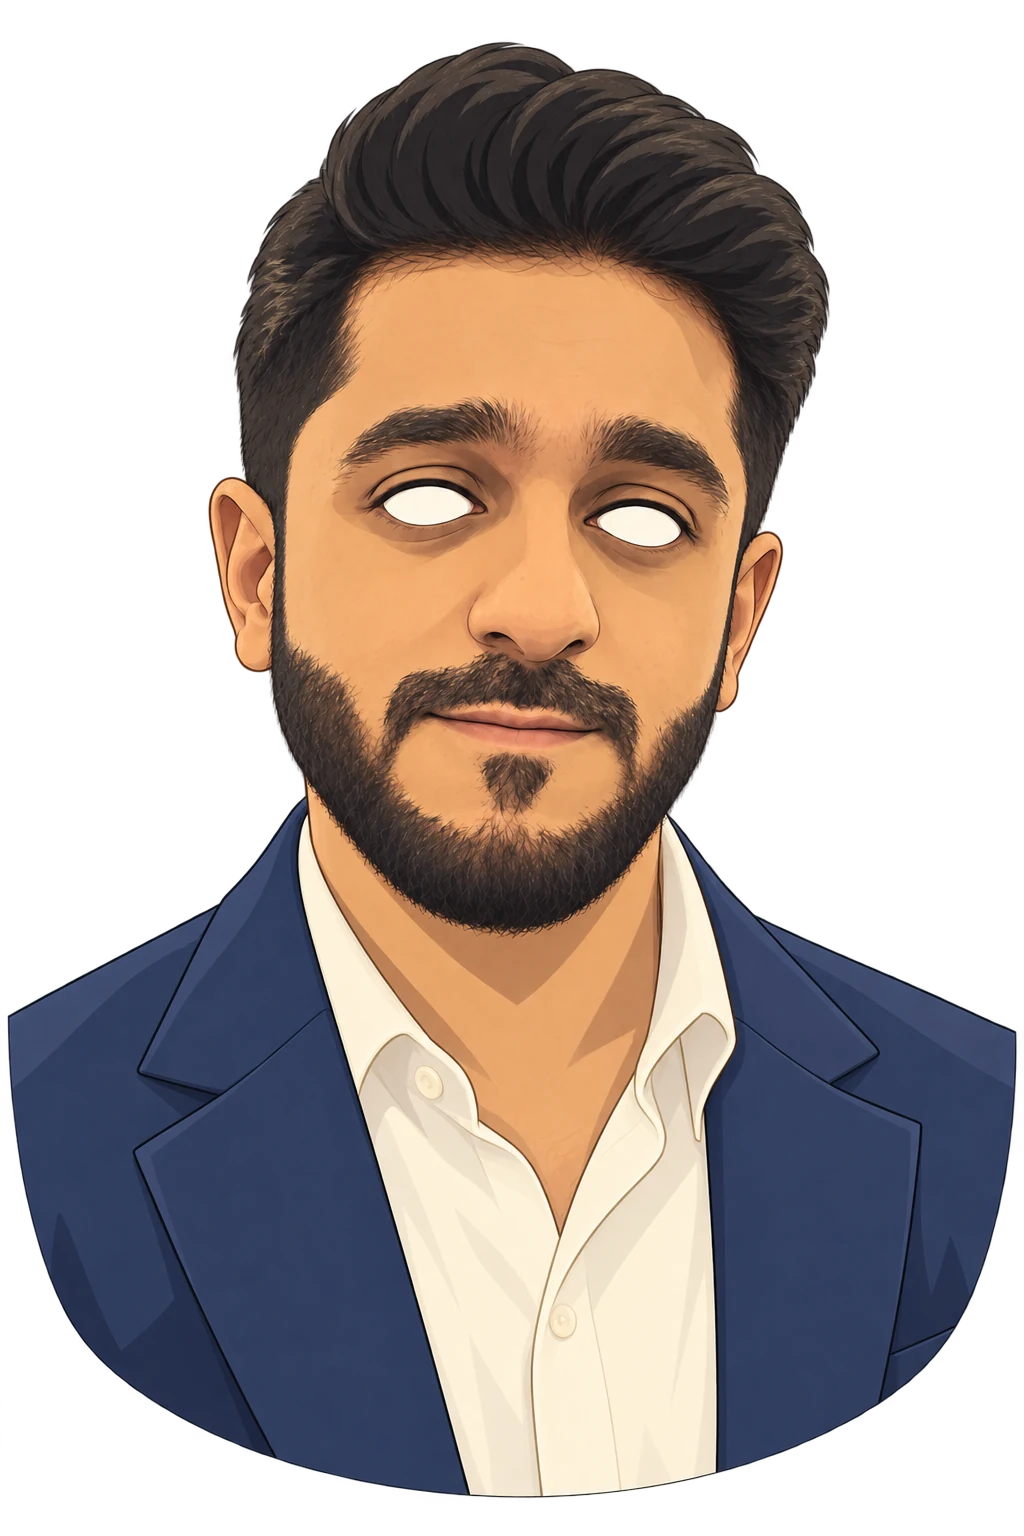
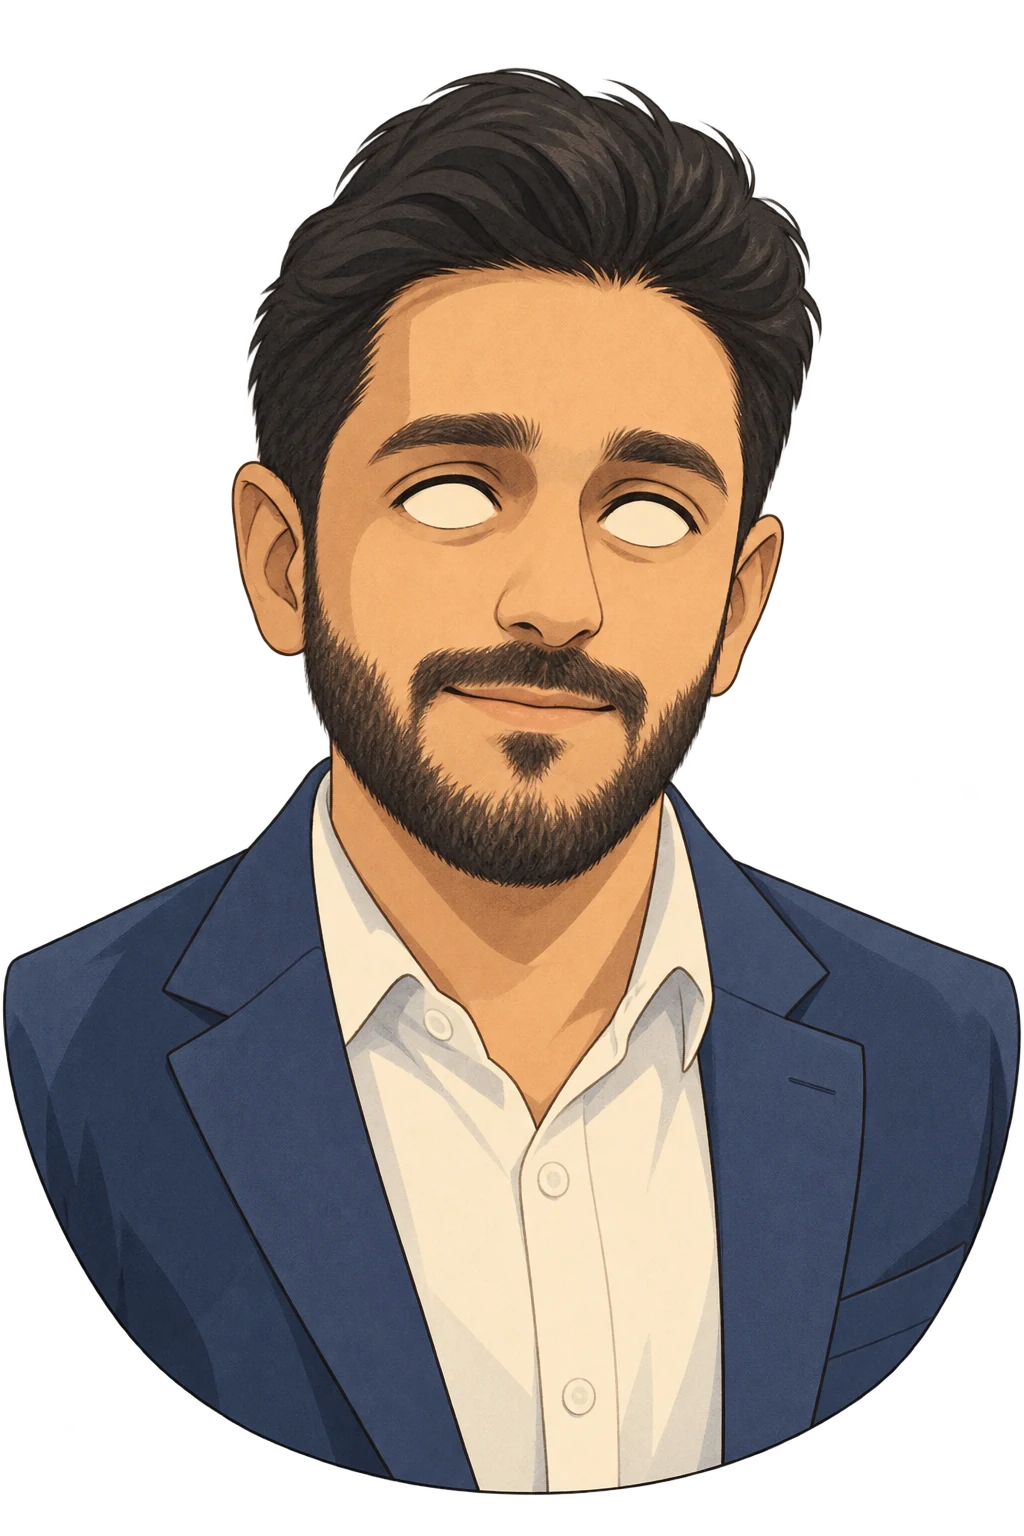
Refine character with softer illustrated treatment

diff --git a/src/Character.tsx b/src/Character.tsx
@@ -3,8 +3,8 @@ import { motion, useMotionValue, useReducedMotion, useSpring, useTransform } fro
 
 const portrait = `${import.meta.env.BASE_URL}character/naveed-anime.webp`
 const eyes = [
-  { x: 427, y: 507, shape: 'M372 506 Q421 467 472 502 Q451 529 414 527 Q389 526 372 506Z', lid: 'M374 507 Q423 535 471 503' },
-  { x: 638, y: 526, shape: 'M591 522 Q630 491 668 516 Q680 526 680 535 Q644 554 615 539Z', lid: 'M591 523 Q638 554 681 535' },
+  { x: 449, y: 509, shape: 'M401 504 Q449 461 495 507 Q484 533 448 530 Q419 527 401 504Z', lid: 'M402 505 Q448 538 494 508' },
+  { x: 646, y: 525, shape: 'M599 521 Q643 475 686 524 Q690 533 676 540 Q639 553 610 535Z', lid: 'M600 522 Q643 554 687 529' },
 ]
 
 export function Character() {
@@ -79,13 +79,13 @@ export function Character() {
           <image href={portrait} width="1024" height="1536" clipPath={`url(#${id}-head)`}/>
           {eyes.map((eye, index) => <g key={index} clipPath={`url(#${id}-eye-${index})`}>
             <motion.g className="portrait-pupils" style={{ x: pupilX, y: pupilY }}>
-              <ellipse cx={eye.x} cy={eye.y} rx="21" ry="23" fill={`url(#${id}-iris)`}/>
+              <ellipse cx={eye.x} cy={eye.y} rx="23" ry="26" fill={`url(#${id}-iris)`}/>
               <ellipse cx={eye.x} cy={eye.y} rx="10" ry="13" fill="#191b1b"/>
               <circle cx={eye.x - 6} cy={eye.y - 8} r="5" fill="#fff5df"/>
               <circle cx={eye.x + 7} cy={eye.y + 8} r="2" fill="#dcb886"/>
             </motion.g>
             <g className="portrait-blink">
-              <path d={eye.shape} fill="#c99163"/>
+              <path d={eye.shape} fill="#dba477"/>
               <path d={eye.lid} fill="none" stroke="#483329" strokeWidth="5"/>
             </g>
           </g>)}

diff --git a/assets/character-art-direction.md b/assets/character-art-direction.md
@@ -14,10 +14,14 @@ Initial: Create one production-ready transparent PNG character portrait for a pr
 
 Refinement: Preserve the first portrait's adult likeness, full neatly shaped beard, thick swept dark hair, strong brows, navy blazer and ivory open shirt. Change rendering toward the supplied soft hand-drawn Japanese anime-film illustration: cleaner outlines, warm cel colour areas and gentle shadows rather than photographic texture. Retain actual facial proportions and skin tone. Front-facing upright bust with blank eye whites for animation. Transparent padding, upper chest, curved lower silhouette. No background, halo, scenery or text.
 
-## Delivery
+## Softer treatment selected
+
+The user selected the softer animated direction. A fresh image was generated with the supplied illustration as the primary style reference and IMG_8158.JPG for identity. Final prompt: create a soft hand-drawn anime animation base, matching the reference's gentle traditional 2D face shading, softly drawn eyes, natural nose, friendly closed-mouth smile, muted navy blazer and cream shirt. Preserve recognizable adult proportions, swept dark hair, strong brows, medium brown skin and full neatly shaped beard. Use broad hair shapes, fine warm outlines, two or three face colour tones and paper-like warmth. Front-facing 1024 × 1536 bust, complete shoulders, curved lower silhouette, transparent padding. Keep outlined almond eye whites blank for separately animated brown pupils. No scenery, halo, text, signature or watermark. Built-in image generation; the published WebP replaces the earlier treatment. Eye clips, pupil positions and eyelid colour were realigned to this version.
+
+## Runtime asset
 
 - Runtime asset: `public/character/naveed-anime.webp` (1024 × 1536, alpha, metadata-free).
 - The raster intentionally has no pupils. `src/Character.tsx` supplies brown irises, pupils and highlights in the pre-rendered HTML; the complete website portrait therefore remains visible without JavaScript.
 - SVG clips separate the static torso and moving head with neck overlap. Clipped eyes follow the pointer; the head tilts at most 1.4 degrees. CSS eyelids blink briefly every eight seconds on fine-pointer devices only.
 - Touch and reduced-motion visitors receive a neutral static portrait. Desktop scrolling docks it in a corner; the docked portrait reacts only within 180px.
-- This is the first implemented likeness for user review, not a claim that the user has approved the final artwork.
+- The user selected this softer animation direction; likeness can still be refined through feedback.

diff --git a/portfolio_plan.md b/portfolio_plan.md
@@ -56,7 +56,7 @@ Audience: recruiters and hiring managers. Country-specific job-search, relocatio
 
 **Selected direction for v1 (updated 5 October):** a recognisable anime portrait based on my supplied Sample Self Pictures, guided by the supplied Ghibli-style illustration. Preserve adult likeness, hairstyle and facial hair with warm colours, controlled linework and a transparent background. Keep it professional, not childish or a generic mascot.
 
-The explicit anime request supersedes the earlier illustrated-versus-pixel comparison. Review likeness in the working hero; further artwork refinement remains possible without blocking animation.
+The explicit anime request supersedes the earlier illustrated-versus-pixel comparison. The user selected the softer animated direction; use warm hand-drawn shading and gentle linework close to the supplied illustrated reference. Review further likeness refinements in the working hero.
 
 **Alternative concept: pixel-art avatar from my own image**
 - Source: my own photo or drawing, converted to pixel art, then cleaned up by hand.

diff --git a/VERIFICATION.md b/VERIFICATION.md
@@ -1,5 +1,11 @@
 # Initial portfolio verification
 
+## Softer character refinement — 5 October 2026
+
+- Applied the user's preference for the softer illustrated direction. Replaced the portrait WebP with a fresh image based primarily on the supplied illustration treatment and the actual photograph for likeness; realigned eye clips, pupil positions and eyelid colour.
+- Desktop hero visually inspected and pointer movement verified against the new eye positions. No browser console errors observed. Screenshot: `.qa/softer-anime-character.png`.
+- Production build, static checks and whitespace checks pass. Animation behaviour, responsive sizing and reduced-motion rules are unchanged; previous physical-touch and OS reduced-motion verification limitations still apply.
+
 ## Personal anime character — 5 October 2026
 
 - Replaced the stock placeholder with a photo-derived anime portrait using the user's supplied photographs and illustration reference. A transparent 1024 × 1536 WebP asset is approximately 131 KiB; source photographs remain ignored and unchanged.
